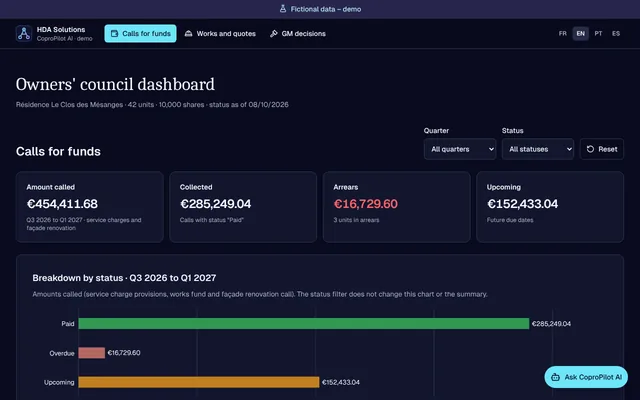
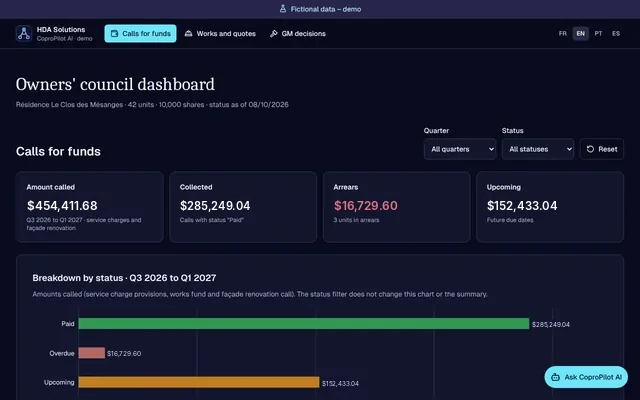
EN site: amounts in US dollars
Hero dashboard image, assistant answer and project-form budget labels now show $.
Form option values (sent to us) are unchanged.

Claude-Session: https://claude.ai/code/session_01RsWFF3LUBvvfwWChneYgWM

diff --git a/en/index.html b/en/index.html
@@ -9,7 +9,7 @@
 <div class="browser"><div class="browser-bar"><i></i><i></i><i></i><span>demo.hdaprodz.com</span></div><img src="/media/demo-dashboard-en.webp" alt="" width="640" height="400" decoding="async"></div>
 <div class="chat-card"><div class="chat-head"><span class="chat-dot"></span>CoproSens assistant</div>
 <p class="chat-q">Which units are behind on payments?</p>
-<p class="chat-a">3 units behind, <b>€16,729.60</b> in total, excluding penalties.</p>
+<p class="chat-a">3 units behind, <b>$16,729.60</b> in total, excluding penalties.</p>
 <p class="chat-src">Source: board dashboard, 8 October 2026</p></div>
 <div class="scene-chip">Sourced answer</div>
 </div></section><div class="ribbon"><span>AI assistants & agents</span><span>Microsoft 365 · Copilot Studio · Power Platform</span><span>France · Tailor-made solutions</span></div><section class="section" id="solutions"><div class="sectionhead"><div><div class="eyebrow">What we build</div><h2>AI at the service<br>of real work.</h2></div><p>We start from a concrete need and your existing tools to build a solution suited to your organisation.</p></div><div class="grid"><article class="card"><span class="icon ic-teal"><svg viewBox="0 0 24 24" aria-hidden="true"><path d="M4 5h16v10H9l-5 4z" fill="none" stroke="currentColor" stroke-width="2" stroke-linejoin="round"/><circle cx="9" cy="10" r="1.2" fill="currentColor"/><circle cx="12" cy="10" r="1.2" fill="currentColor"/><circle cx="15" cy="10" r="1.2" fill="currentColor"/></svg></span><span class="number">01 / ASSIST</span><h3>Assistants and copilots</h3><p>Conversational interfaces to guide users, prepare content and support everyday tasks.</p><span class="tag">Copilot Studio</span><span class="tag">AI agents</span></article><article class="card"><span class="icon ic-amber"><svg viewBox="0 0 24 24" aria-hidden="true"><path d="M6 3h9l4 4v14H6z" fill="none" stroke="currentColor" stroke-width="2" stroke-linejoin="round"/><path d="M9 11h7M9 15h7M9 7h4" stroke="currentColor" stroke-width="2" stroke-linecap="round"/></svg></span><span class="number">02 / CONNECT</span><h3>Accessible knowledge</h3><p>Connect the right documents to an assistant, structure information and make searching easier while respecting defined access rights.</p><span class="tag">SharePoint</span><span class="tag">Microsoft 365</span></article><article class="card"><span class="icon ic-coral"><svg viewBox="0 0 24 24" aria-hidden="true"><path d="M13 2 5 14h6l-1 8 8-12h-6z" fill="none" stroke="currentColor" stroke-width="2" stroke-linejoin="round"/></svg></span><span class="number">03 / AUTOMATE</span><h3>Simpler processes</h3><p>Prepare answers, organise requests and connect repetitive steps, with the right controls for each use.</p><span class="tag">Power Automate</span><span class="tag">Business apps</span></article></div></section></div><section class="dark section" id="applications"><div class="wrap"><div class="eyebrow">Case study</div><h2>An assistant built<br>for a real profession.</h2><p>Our first assistant, developed for condominium management. The same approach adapts to other professions.</p><div class="cases single"><article class="case"><span class="eyebrow">Real estate & co-ownership</span><h3>CoproSens<br>– the document assistant for your condominium</h3><p>Our AI assistant for co-ownership management: documents, service-charge calls and general meetings.</p><ul><li>Find information in the building’s documents, with its source.</li><li>Calculate each unit’s service-charge call: ownership shares, special charges and individual water and heating consumption.</li><li>Draft the agenda, the notice of meeting, the postal-vote form and the general-meeting minutes, approved by the property manager before sending.</li></ul><figure style="margin:28px 0 0"><video controls playsinline preload="none" poster="/media/coprosens-poster.jpg" style="display:block;width:100%;aspect-ratio:16/9;background:#0e2220;border-radius:8px" aria-label="CoproSens presentation"><source src="/media/coprosens-presentation.mp4" type="video/mp4">Your browser can’t play this video. <a href="/media/coprosens-presentation.mp4">Download the presentation</a>.</video><figcaption style="font-size:13px;color:#ccd8cc;margin-top:10px">CoproSens in 1 min 18 s · presentation in French, synthetic voice</figcaption></figure><p class="demo-cta" style="margin:18px 0 0"><a class="button" href="https://demo.hdaprodz.com/?lang=en&amp;assistant=1" target="_blank" rel="noopener">Try the demo ↗</a><span class="demo-preview"><a class="textlink" href="https://demo.hdaprodz.com/?lang=en" target="_blank" rel="noopener" style="display:table;margin-top:16px">See the owners’ council dashboard ↗</a><span class="demo-thumb" aria-hidden="true"><img src="/media/demo-dashboard-en.webp" alt="" width="640" height="400" loading="lazy" decoding="async"></span></span><a class="textlink" href="/outils/" style="display:table;margin-top:10px">Try the property-manager tools: service-charge calls and meeting documents (in French) ↗</a><span style="display:block;font-size:13px;color:#ccd8cc;margin-top:8px">Fictional condominium, demo data · AI-generated answers</span></p></article></div><div class="audience"><h3 class="audience-title">For everyone in the building</h3><div class="audience-grid">

diff --git a/en/project.html b/en/project.html
@@ -21,7 +21,7 @@
     <label><span>Description <abbr title="required">*</abbr></span><span class="p-hint">The need, the users involved, your current tools (Microsoft 365, SharePoint…) and the expected result.</span><textarea name="description" rows="7" required minlength="20" maxlength="5000"></textarea><span class="p-count" aria-hidden="true"><span id="count">0</span> / 5000</span></label>
     <div class="p-row">
       <label><span>Preferred timing</span><select name="timeline"><option value="">Choose…</option><option value="Dès que possible">As soon as possible</option><option value="Dans 1 à 3 mois">Within 1 to 3 months</option><option value="Dans 3 à 6 mois">Within 3 to 6 months</option><option value="Plus tard / à définir">Later / to be defined</option></select></label>
-      <label><span>Indicative budget</span><select name="budget"><option value="">Choose…</option><option value="Moins de 2 000 €">Under €2,000</option><option value="2 000 – 5 000 €">€2,000 – €5,000</option><option value="5 000 – 15 000 €">€5,000 – €15,000</option><option value="Plus de 15 000 €">Over €15,000</option><option value="À définir ensemble">To be defined together</option></select></label>
+      <label><span>Indicative budget</span><select name="budget"><option value="">Choose…</option><option value="Moins de 2 000 €">Under $2,000</option><option value="2 000 – 5 000 €">$2,000 – $5,000</option><option value="5 000 – 15 000 €">$5,000 – $15,000</option><option value="Plus de 15 000 €">Over $15,000</option><option value="À définir ensemble">To be defined together</option></select></label>
     </div>
     <label><span>How did you hear about us?</span><input name="source" maxlength="120"></label>
   </fieldset>
